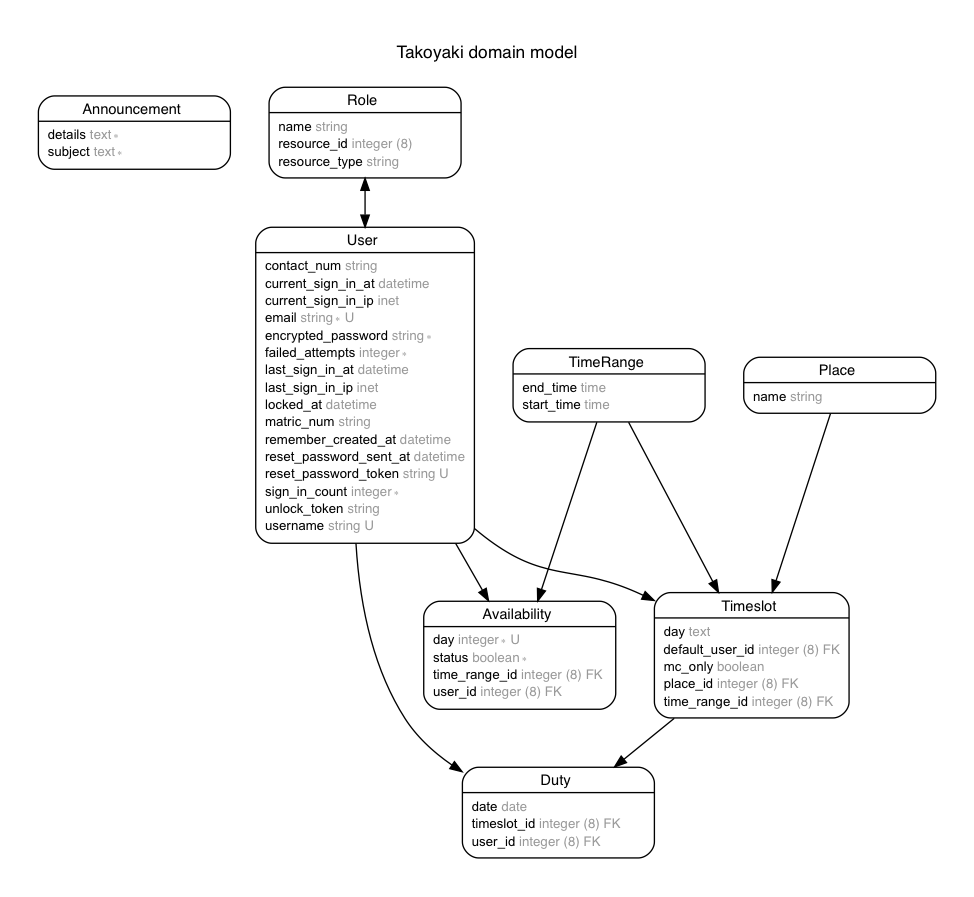
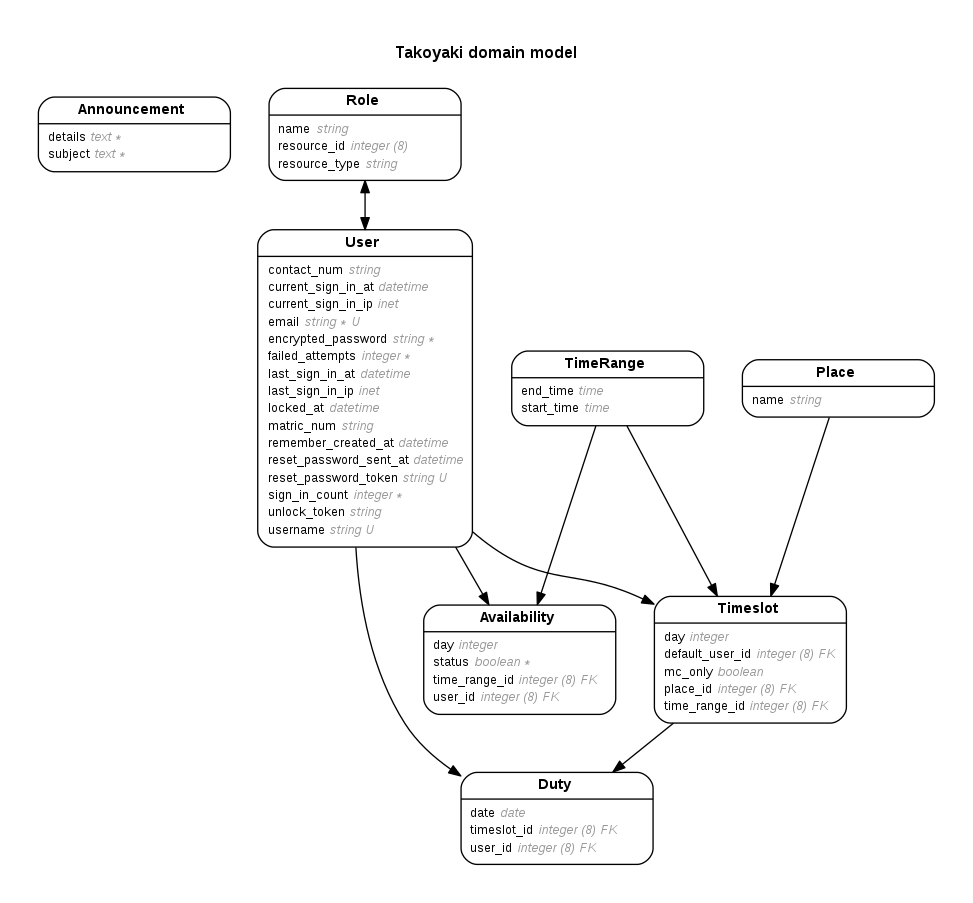
Change all enum types to integer

diff --git a/db/schema.rb b/db/schema.rb
@@ -10,7 +10,7 @@
 #
 # It's strongly recommended that you check this file into your version control system.
 
-ActiveRecord::Schema.define(version: 20180319073436) do
+ActiveRecord::Schema.define(version: 20180329164621) do
 
   # These are extensions that must be enabled in order to support this database
   enable_extension "plpgsql"
@@ -24,13 +24,11 @@ ActiveRecord::Schema.define(version: 20180319073436) do
 
   create_table "availabilities", force: :cascade do |t|
     t.bigint   "user_id",       :index=>{:name=>"index_availabilities_on_user_id"}
-    t.integer  "day",           :null=>false
     t.bigint   "time_range_id", :index=>{:name=>"index_availabilities_on_time_range_id"}
     t.datetime "created_at",    :null=>false
     t.datetime "updated_at",    :null=>false
     t.boolean  "status",        :null=>false
-
-    t.index ["user_id", "time_range_id", "day"], :name=>"index_availabilities_on_user_id_and_time_range_id_and_day", :unique=>true
+    t.integer  "day"
   end
 
   create_table "duties", force: :cascade do |t|
@@ -64,12 +62,12 @@ ActiveRecord::Schema.define(version: 20180319073436) do
 
   create_table "timeslots", force: :cascade do |t|
     t.boolean  "mc_only"
-    t.text     "day"
     t.bigint   "default_user_id", :index=>{:name=>"index_timeslots_on_default_user_id"}
     t.bigint   "time_range_id",   :index=>{:name=>"index_timeslots_on_time_range_id"}
     t.bigint   "place_id",        :index=>{:name=>"index_timeslots_on_place_id"}
     t.datetime "created_at",      :null=>false
     t.datetime "updated_at",      :null=>false
+    t.integer  "day"
   end
 
   create_table "users", force: :cascade do |t|

diff --git a/app/models/availability.rb b/app/models/availability.rb
@@ -1,23 +1,20 @@
 # frozen_string_literal: true
-
 # == Schema Information
 #
 # Table name: availabilities
 #
 #  id            :integer          not null, primary key
 #  user_id       :integer
-#  day           :integer          not null
 #  time_range_id :integer
 #  created_at    :datetime         not null
 #  updated_at    :datetime         not null
 #  status        :boolean          not null
+#  day           :integer
 #
 # Indexes
 #
-#  index_availabilities_on_time_range_id                      (time_range_id)
-#  index_availabilities_on_user_id                            (user_id)
-#  index_availabilities_on_user_id_and_time_range_id_and_day
-#    (user_id,time_range_id,day) UNIQUE
+#  index_availabilities_on_time_range_id  (time_range_id)
+#  index_availabilities_on_user_id        (user_id)
 #
 # Foreign Keys
 #

diff --git a/spec/factories/availabilities.rb b/spec/factories/availabilities.rb
@@ -1,23 +1,20 @@
 # frozen_string_literal: true
-
 # == Schema Information
 #
 # Table name: availabilities
 #
 #  id            :integer          not null, primary key
 #  user_id       :integer
-#  day           :integer          not null
 #  time_range_id :integer
 #  created_at    :datetime         not null
 #  updated_at    :datetime         not null
 #  status        :boolean          not null
+#  day           :integer
 #
 # Indexes
 #
-#  index_availabilities_on_time_range_id                      (time_range_id)
-#  index_availabilities_on_user_id                            (user_id)
-#  index_availabilities_on_user_id_and_time_range_id_and_day
-#    (user_id,time_range_id,day) UNIQUE
+#  index_availabilities_on_time_range_id  (time_range_id)
+#  index_availabilities_on_user_id        (user_id)
 #
 # Foreign Keys
 #

diff --git a/spec/models/availability_spec.rb b/spec/models/availability_spec.rb
@@ -1,23 +1,20 @@
 # frozen_string_literal: true
-
 # == Schema Information
 #
 # Table name: availabilities
 #
 #  id            :integer          not null, primary key
 #  user_id       :integer
-#  day           :integer          not null
 #  time_range_id :integer
 #  created_at    :datetime         not null
 #  updated_at    :datetime         not null
 #  status        :boolean          not null
+#  day           :integer
 #
 # Indexes
 #
-#  index_availabilities_on_time_range_id                      (time_range_id)
-#  index_availabilities_on_user_id                            (user_id)
-#  index_availabilities_on_user_id_and_time_range_id_and_day
-#    (user_id,time_range_id,day) UNIQUE
+#  index_availabilities_on_time_range_id  (time_range_id)
+#  index_availabilities_on_user_id        (user_id)
 #
 # Foreign Keys
 #

diff --git a/app/models/timeslot.rb b/app/models/timeslot.rb
@@ -1,17 +1,16 @@
 # frozen_string_literal: true
-
 # == Schema Information
 #
 # Table name: timeslots
 #
 #  id              :integer          not null, primary key
 #  mc_only         :boolean
-#  day             :text
 #  default_user_id :integer
 #  time_range_id   :integer
 #  place_id        :integer
 #  created_at      :datetime         not null
 #  updated_at      :datetime         not null
+#  day             :integer
 #
 # Indexes
 #

diff --git a/spec/factories/timeslots.rb b/spec/factories/timeslots.rb
@@ -1,17 +1,16 @@
 # frozen_string_literal: true
-
 # == Schema Information
 #
 # Table name: timeslots
 #
 #  id              :integer          not null, primary key
 #  mc_only         :boolean
-#  day             :text
 #  default_user_id :integer
 #  time_range_id   :integer
 #  place_id        :integer
 #  created_at      :datetime         not null
 #  updated_at      :datetime         not null
+#  day             :integer
 #
 # Indexes
 #

diff --git a/spec/models/timeslot_spec.rb b/spec/models/timeslot_spec.rb
@@ -1,17 +1,16 @@
 # frozen_string_literal: true
-
 # == Schema Information
 #
 # Table name: timeslots
 #
 #  id              :integer          not null, primary key
 #  mc_only         :boolean
-#  day             :text
 #  default_user_id :integer
 #  time_range_id   :integer
 #  place_id        :integer
 #  created_at      :datetime         not null
 #  updated_at      :datetime         not null
+#  day             :integer
 #
 # Indexes
 #

diff --git a/db/migrate/20180329164621_change_all_enum_to_integer.rb b/db/migrate/20180329164621_change_all_enum_to_integer.rb
@@ -1,0 +1,8 @@
+class ChangeAllEnumToInteger < ActiveRecord::Migration[5.1]
+  def change
+    remove_column :availabilities, :day
+    add_column :availabilities, :day, :integer
+    remove_column :timeslots, :day
+    add_column :timeslots, :day, :integer
+  end
+end
